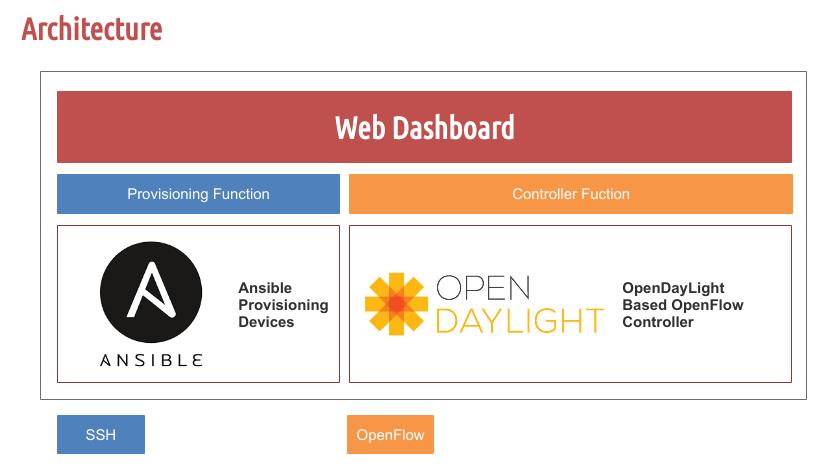
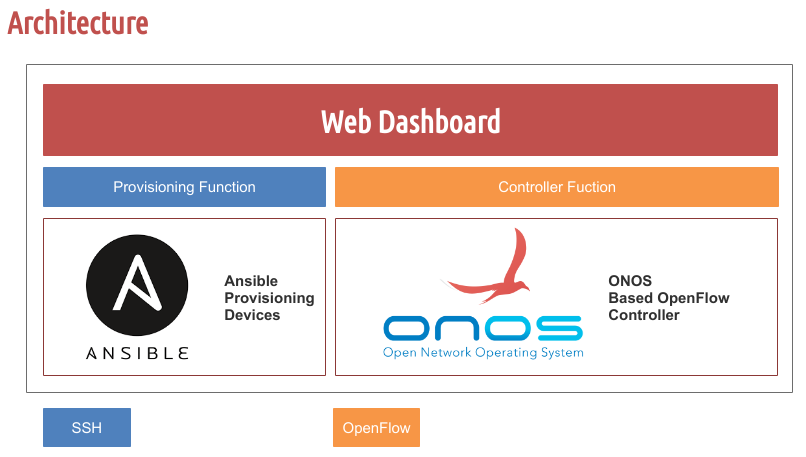
chang odl to onos

diff --git a/README.md b/README.md
@@ -8,7 +8,7 @@ PureFlow is platform that can provisioning device to connect to openflow control
 - MikroTik
 
 ### **Architecture**
-PureFlow using Ansible and OpenDayLight as main Backend tools. Ansible is use to provisioning the devices via SSH and OpenDayLight to control the flow inside devices.
+PureFlow using Ansible and ONOS as main Backend tools. Ansible is use to provisioning the devices via SSH and ONOS to control the flow inside devices.
 
 <span style="display:block;text-align:center">![architecture](https://raw.githubusercontent.com/zufardhiyaulhaq/PureFlow/master/assets/architecture.png)</span>
 
